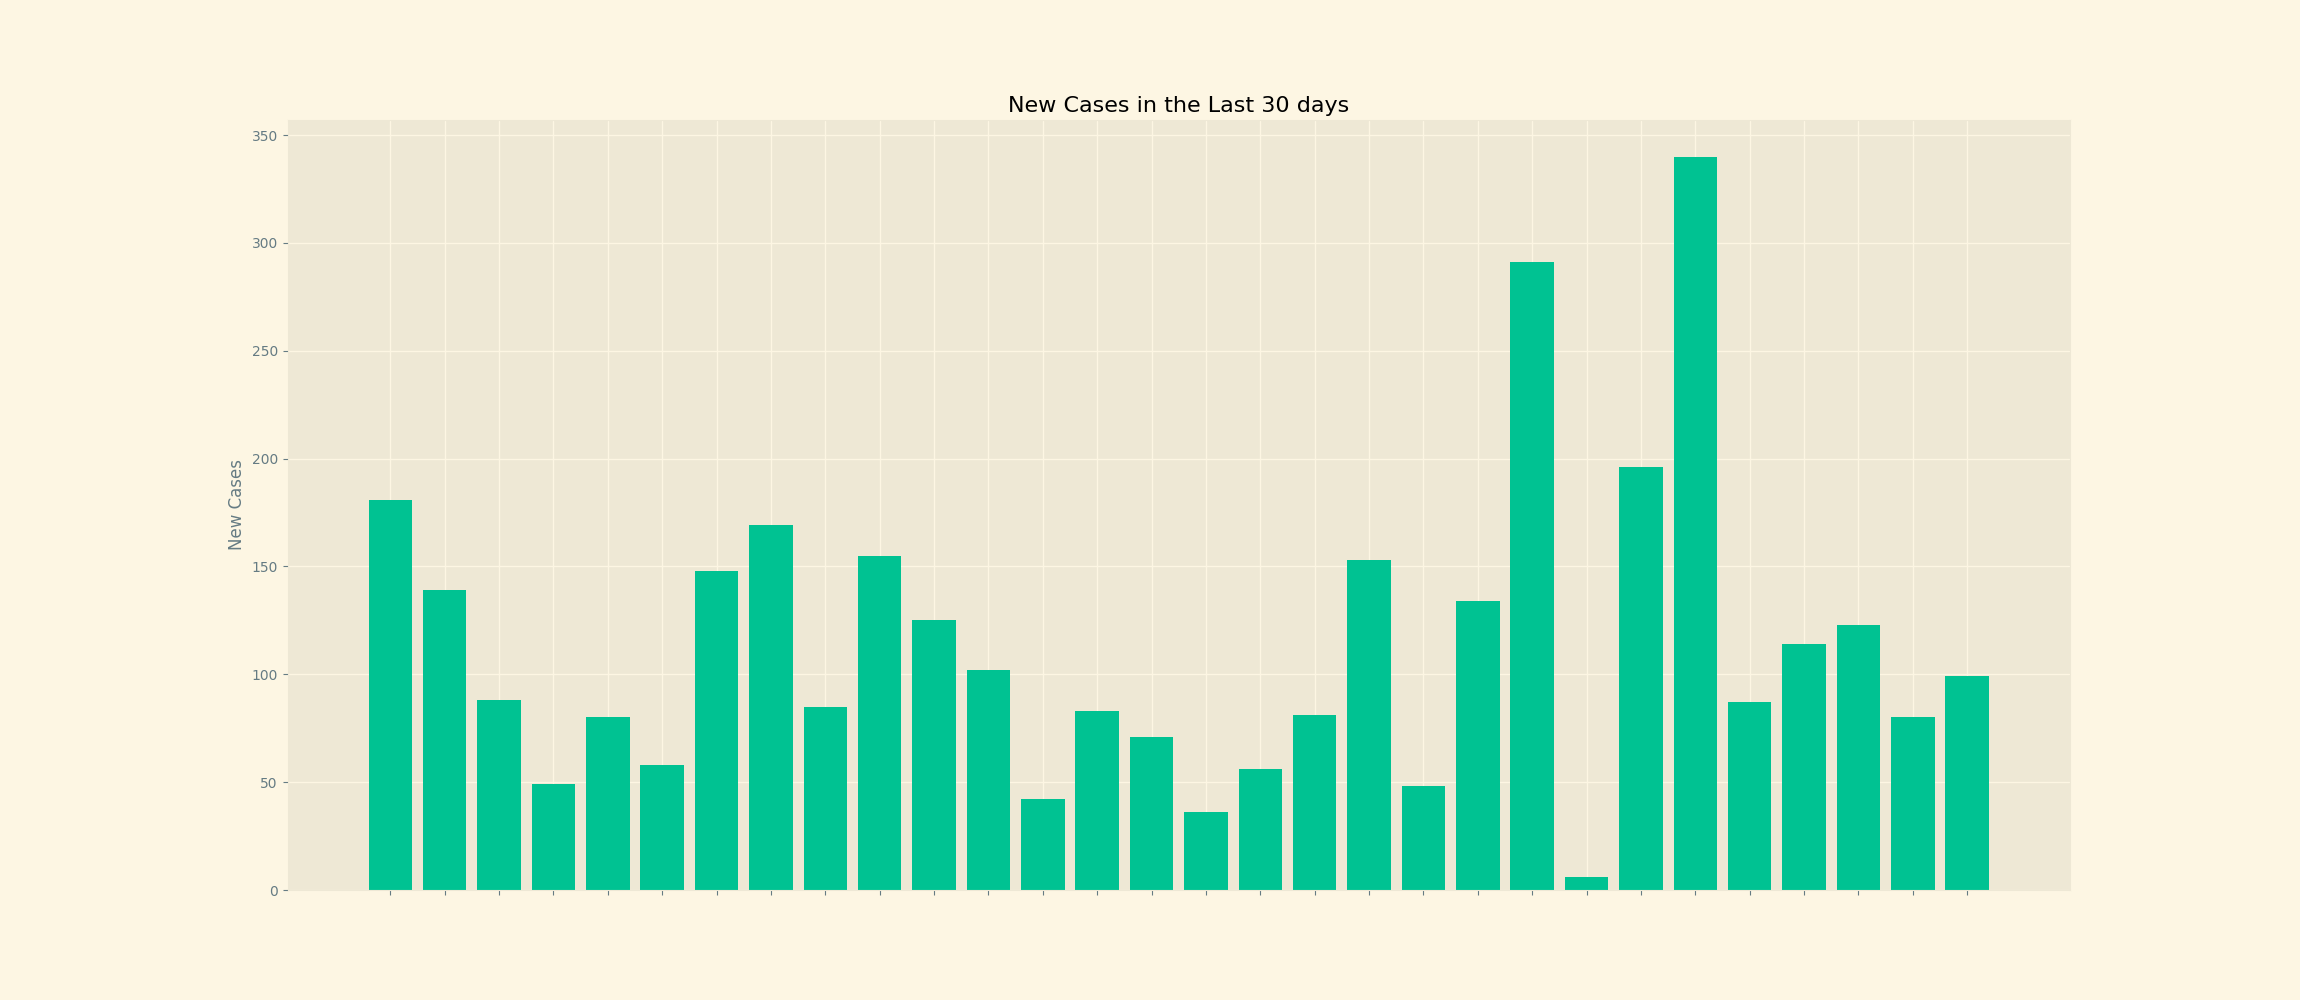
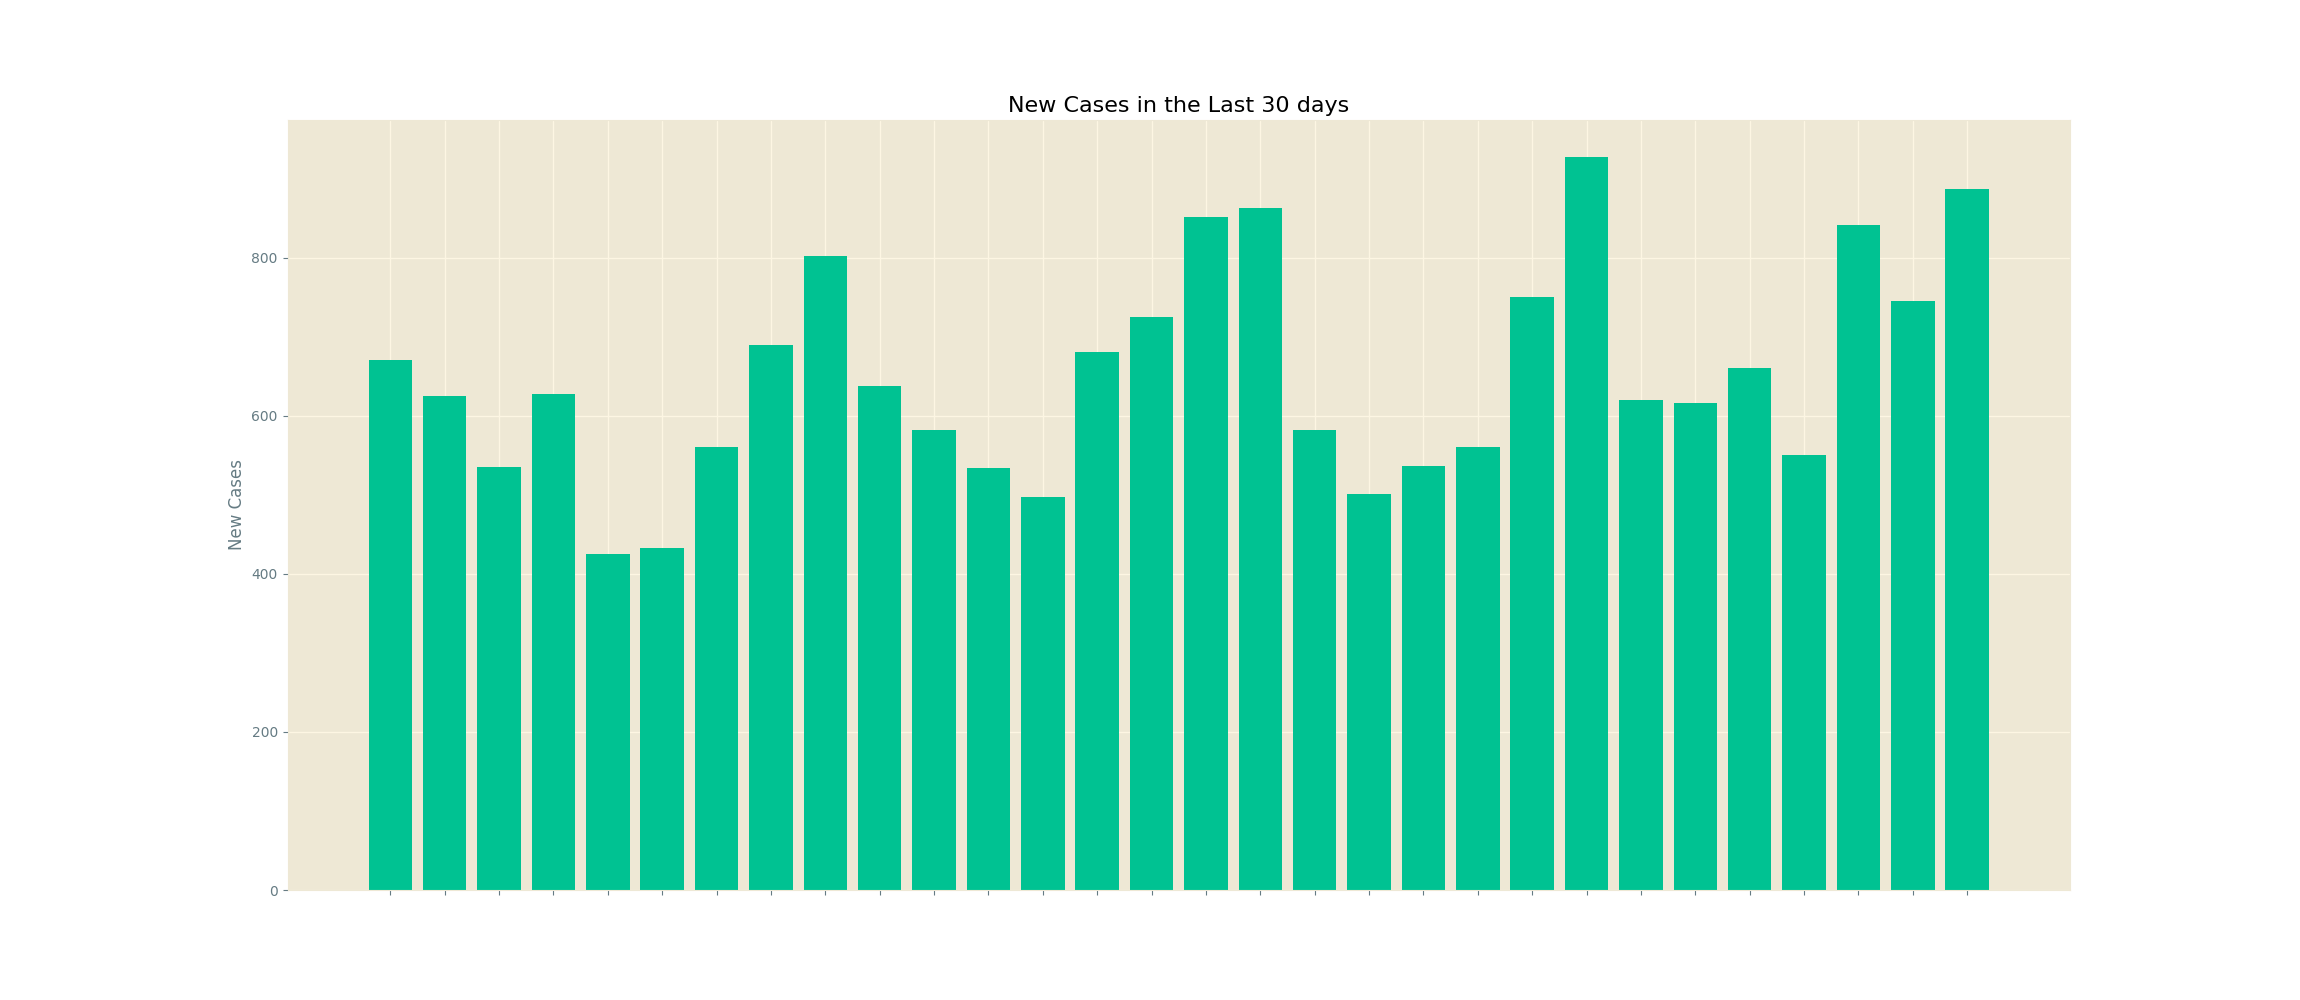
m

diff --git a/templates/result.html b/templates/result.html
@@ -130,17 +130,19 @@
     <div class="sale-statistic-area">
         <div class="container">
             <div class="row">
-                <div class="col-lg-9 col-md-8 col-sm-7 col-xs-12">
-                    <div class="sale-statistic-inner notika-shadow mg-tb-30">
-                        <div class="curved-inner-pro">
-                            <div class="curved-ctn">
-                                <h2>General Trends</h2>
-                                <p>Some statistics regarding day-to-day trends</p>
-                            </div>
+              <div class="col-lg-9 col-md-8 col-sm-7 col-xs-12">
+                <div class="sale-statistic-inner notika-shadow mg-tb-30">
+                    <div class="curved-inner-pro">
+                        <div class="curved-ctn">
+                            <h2>General Trends</h2>
+                            <p>Plots of some general trends near your location.</p>
                         </div>
-                        
+                    </div>
+                    <div  class="my-chart">
+                      <img src="../static/all_time_graph.png" alt="">
                     </div>
                 </div>
+            </div>
                 <div class="col-lg-3 col-md-4 col-sm-5 col-xs-12">
                     <div class="statistic-right-area notika-shadow mg-tb-30 sm-res-mg-t-0">
                         <div class="past-day-statis">
@@ -246,6 +248,7 @@
         </div>
       </div>
   </div>
+  <br/>
 
     <!-- End Sale Statistic area-->
     <!-- Start Email Statistic area-->
@@ -332,7 +335,6 @@
     <script src="../static/js/main.js"></script>
 	<!-- tawk chat JS
 		============================================ -->
-    <script src="../static/js/tawk-chat.js"></script>
     <script src="../static/results.js"></script>
     <script src="../static/js/dialog/sweetalert2.min.js"></script>
     <script src="../static/js/dialog/dialog-active.js"></script>

diff --git a/static/stylez.css b/static/stylez.css
@@ -531,6 +531,17 @@ ul.notika-menu-wrap li a{
 /*----------------------------------------*/
 /*  5.  statistics CSS
 /*----------------------------------------*/
+
+.my-chart{
+    height: 349px;
+    width: 807px;
+}
+
+.my-chart img{
+    width: 100%;
+    height: 100%;
+}
+
 .flot-chart {
     height: 319px;
 }

diff --git a/main.py b/main.py
@@ -45,6 +45,8 @@ def background_process():
     try:
         location = request.args.get('location', 0, type=str).split(" ")
         lst = obj.getKeyMetrics(location[0], location[1])
+        map_loc = obj.get_graphs(location[0], location[1])
+        print(map_loc)
         for i in range(len(lst)):
             if lst[i] < 0:
                 lst[i] = 0
